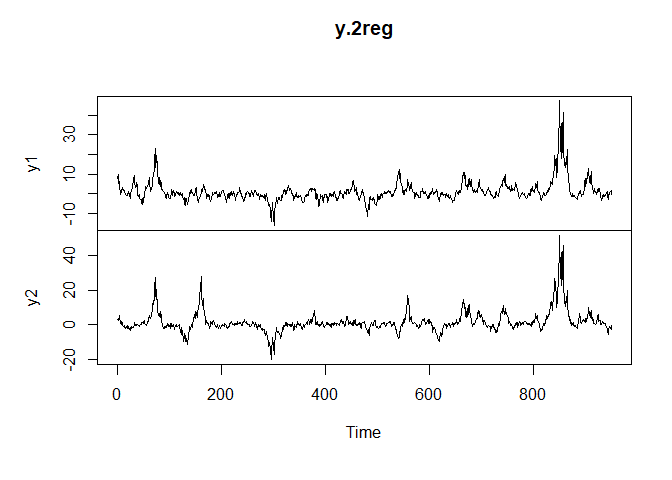
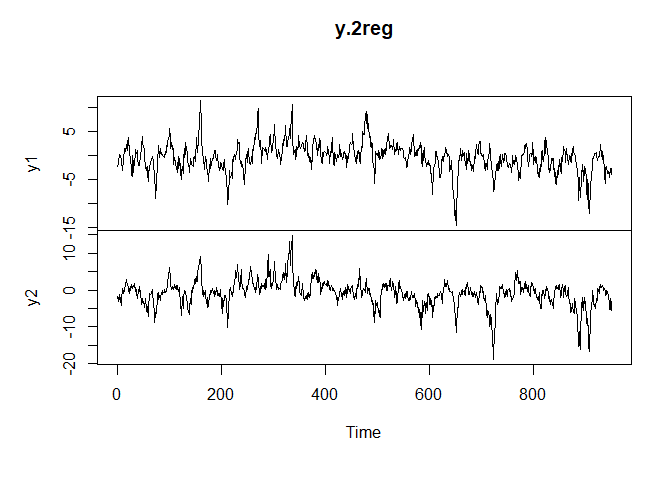
README rebuilt

diff --git a/README.md b/README.md
@@ -8,13 +8,14 @@
 
 The goal of vstar is to test and estimate Vector Smooth Transition
 Autoregression models (VSTAR). The code is based on the specification
-from (Teräsvirta 1994).
+from (Teräsvirta and Yang 2014b, 2014a).
 
-(Teräsvirta 1994) describes the most general model, allowing for
-different transition variables and threshold values for every equation
-of the system and every regime. However, in the package implemented is
-much simpler, yet suitable specification, which uses a common transition
-variable for all regimes and a common threshold value in each regime.
+(Teräsvirta and Yang 2014b) describes the most general model, allowing
+for different transition variables and threshold values for every
+equation of the system and every regime. However, in the package
+implemented is much simpler, yet suitable specification, which uses a
+common transition variable for all regimes and a common threshold value
+in each regime.
 
 ## Installation
 
@@ -35,10 +36,12 @@ library(vstar)
 ```
 
 Let’s generate an artifical data with two regimes using the following
-matrices: The transition variable is a normal random variable with zero
-mean and unit variance. The threshold value is a median value of the
-transition variable. The smoothness parameter $\gamma$ equals 4. We’ll
-use a logistic transition function.
+matrices: $$A_1' = \left(\matrix{.5 & 0 \cr 0 & .5}\right)$$
+$$A_2' = \left(\matrix{.8 & .1 \cr .1 & .8}\right)$$ The transition
+variable is a normal random variable with zero mean and unit variance.
+The threshold value is a median value of the transition variable. The
+smoothness parameter $\gamma$ equals 4. We’ll use a logistic transition
+function.
 
 <img src="man/figures/README-data-generation-1.png" width="100%" />
 
@@ -56,10 +59,10 @@ The linearity test statistics reject the null of linearity:
 ``` r
 round(linearity.test(model.2reg, J = 1), 4)
 #>                     stat crit.10 crit.5  crit.1 p.value
-#> LM              861.1741  7.7794 9.4877 13.2767       0
-#> r-LM            214.3861  1.9478 2.3766  3.3291       0
-#> Rao             463.2582  1.9478 2.3766  3.3291       0
-#> Bartlett-Wilks 1291.7807  7.7794 9.4877 13.2767       0
+#> LM              764.1390  7.7794 9.4877 13.2767       0
+#> r-LM            190.2295  1.9478 2.3766  3.3291       0
+#> Rao             366.1712  1.9478 2.3766  3.3291       0
+#> Bartlett-Wilks 1084.7458  7.7794 9.4877 13.2767       0
 ```
 
 Next, we obtain the starting values for Nonlinear Least Squares by the
@@ -73,13 +76,14 @@ result.2reg <- vstar.grid(dataset = model.2reg,
                           cores = 10)
 ```
 
-The we estimate the model with NLS.
+Then we estimate the model with NLS.
 
 ``` r
 result.nls.2reg <- vstar.nls(result.2reg, tol = 1e-6, verbose = TRUE)
-#> Step 1: delta = 0.00174813
-#> Step 2: delta = 0
-#> Tolerance level 1e-06 achieved in 2 steps.
+#> Step 1: delta = 0.002780002
+#> Step 2: delta = 0.0001072831
+#> Step 3: delta = 0
+#> Tolerance level 1e-06 achieved in 3 steps.
 ```
 
 Then we print out the summary of the estimated model.
@@ -101,36 +105,45 @@ summary(result.nls.2reg)
 #>
 #> Transition function: logistic
 #> gamma values:
-#> [1] 4.134393
+#> [1] 3.341556
 #> threshold values:
-#> [1] 0.04981291
+#> [1] -0.07474272
 #>
 #> Matrix of coefficients:
-#>              R1.y1        R1.y2     R2.y1     R2.y2
-#> l1.y1  0.496116782 -0.006628721 0.7837311 0.1105947
-#> l1.y2 -0.006861645  0.509762292 0.1290430 0.7811628
+#>            R1.y1      R1.y2      R2.y1     R2.y2
+#> l1.y1 0.43108671 -0.0373987 0.84092522 0.1328473
+#> l1.y2 0.03924485  0.4748471 0.05479257 0.8376930
 #>
 #> Matrix of coefficients SD:
-#>            R1.y1      R1.y2      R2.y1      R2.y2
-#> l1.y1 0.01727355 0.01721476 0.02607322 0.02598448
-#> l1.y2 0.01526715 0.01521518 0.02235490 0.02227881
+#>            R1.y1      R1.y2      R2.y1     R2.y2
+#> l1.y1 0.02323907 0.02323704 0.03767280 0.0376695
+#> l1.y2 0.01924053 0.01923884 0.03049446 0.0304918
 #>
 #> Residuals covariance matrix:
 #>             resid.y1    resid.y2
-#> resid.y1  1.00476572 -0.06233943
-#> resid.y2 -0.06233943  0.99793755
+#> resid.y1 1.041408739 0.006190959
+#> resid.y2 0.006190959 1.041226692
 ```
 
 # References
 
 <div id="refs" class="references csl-bib-body hanging-indent">
 
-<div id="ref-terasvirta1994specification" class="csl-entry">
+<div id="ref-terasvirta2014linearity" class="csl-entry">
 
-Teräsvirta, Timo. 1994. “Specification, Estimation, and Evaluation of
-Smooth Transition Autoregressive Models.” *Journal of the American
-Statistical Association* 89 (425): 208–18.
-<https://doi.org/10.2307/2291217>.
+Teräsvirta, Timo, and Yukai Yang. 2014a. “Linearity and Misspecification
+Tests for Vector Smooth Transition Regression Models.” 2014-04.
+Department of Economics and Business Economics, Aarhus University.
+<https://ideas.repec.org/p/aah/create/2014-04.html>.
+
+</div>
+
+<div id="ref-terasvirta2014specification" class="csl-entry">
+
+———. 2014b. “Specification, Estimation and Evaluation of Vector Smooth
+Transition Autoregressive Models with Applications.” 2014-08. Department
+of Economics and Business Economics, Aarhus University.
+<https://ideas.repec.org/p/aah/create/2014-08.html>.
 
 </div>
 
